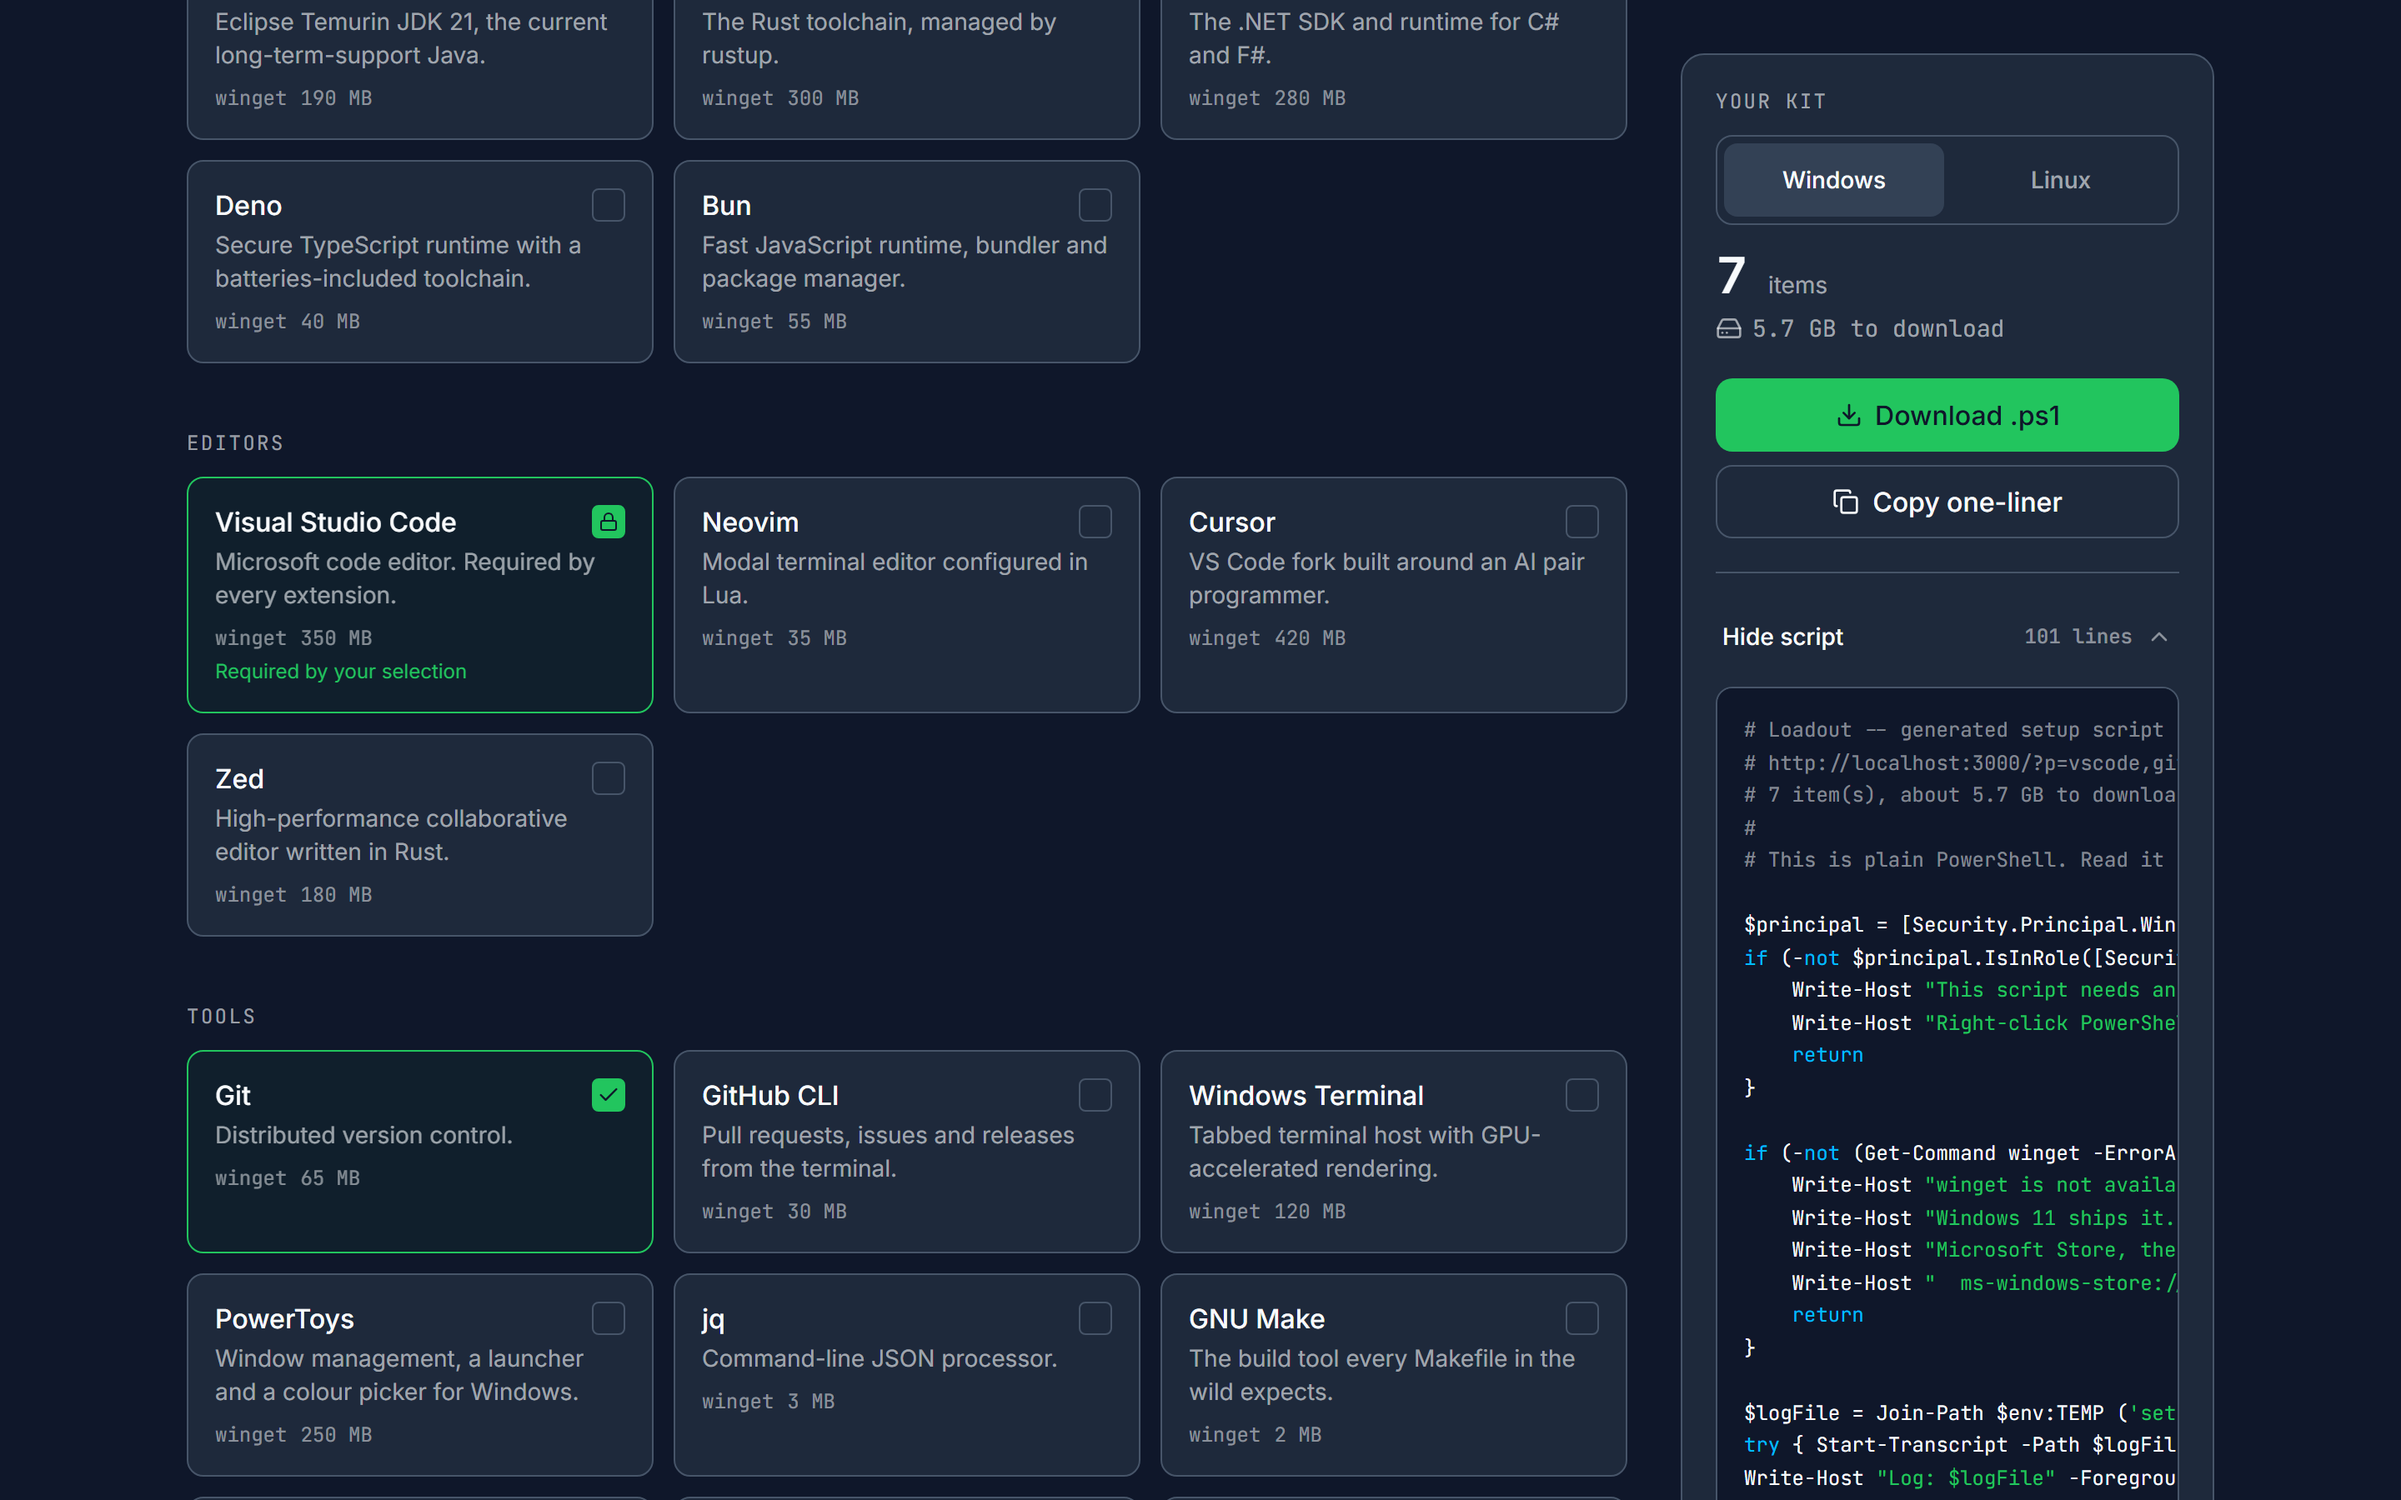
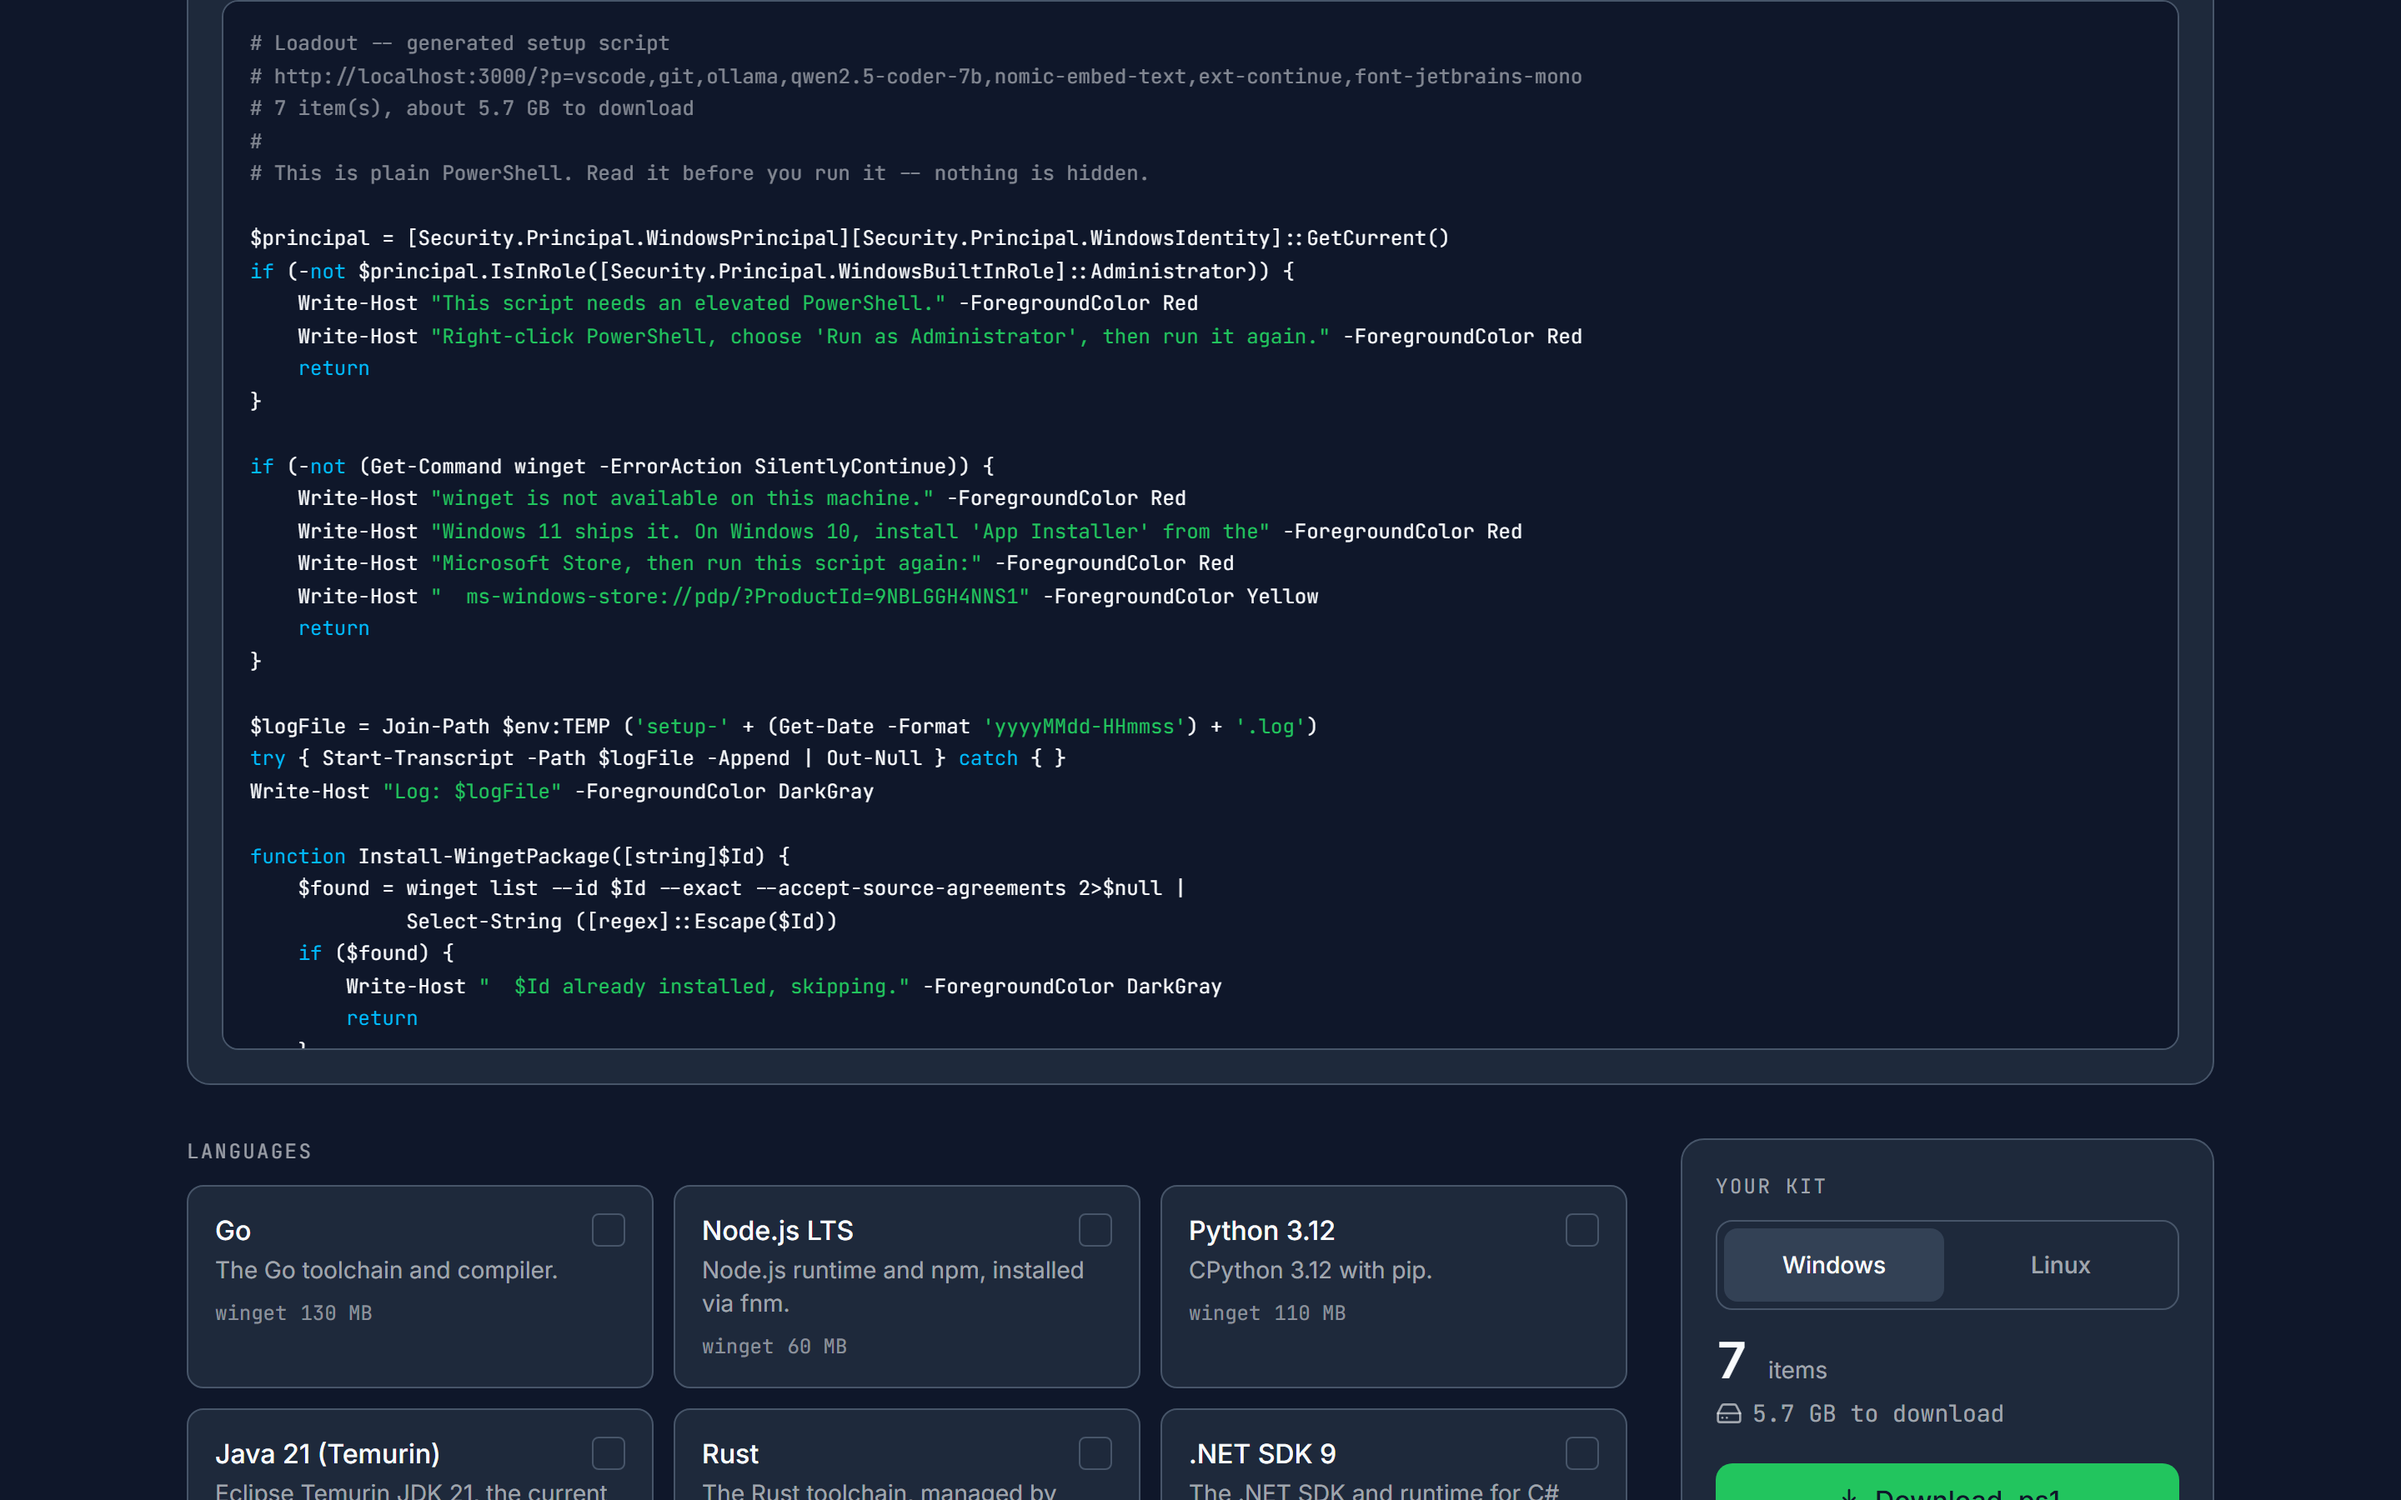
feat(script-preview): move to a full-width section so the script is readable

diff --git a/components/script-preview.tsx b/components/script-preview.tsx
@@ -1,7 +1,7 @@
 "use client";
 
 import { useMemo, useState } from "react";
-import { ChevronDown } from "lucide-react";
+import { ChevronDown, FileCode2 } from "lucide-react";
 import type { Os } from "@/lib/types";
 
 /**
@@ -96,18 +96,26 @@ export function ScriptPreview({ script, os }: { script: string; os: Os }) {
   const lineCount = useMemo(() => script.split("\n").length, [script]);
 
   return (
-    <div className="border-border mt-5 border-t pt-4">
+    // Full width, not inside the 320px sidebar. The generated PowerShell has
+    // lines up to about 80 characters; at 12px mono that needs roughly 620px,
+    // and the sidebar gave it 280. Every real line was clipped, so the one
+    // feature this product is built around -- read it before you run it -- was
+    // rendered in a column too narrow to read it in.
+    <div className="border-border bg-primary rounded-xl border p-4 sm:p-5">
       <button
         type="button"
         onClick={() => setOpen((value) => !value)}
         aria-expanded={open}
         aria-controls="script-body"
         className="hover:text-accent focus-visible:outline-ring flex min-h-[44px] w-full
-          cursor-pointer items-center justify-between gap-2 rounded-lg px-1 text-left
-          text-sm font-medium transition-colors duration-200
+          cursor-pointer items-center justify-between gap-3 rounded-lg px-1 text-left
+          font-medium transition-colors duration-200
           focus-visible:outline-2 focus-visible:outline-offset-2"
       >
-        <span>{open ? "Hide script" : "View script"}</span>
+        <span className="flex items-center gap-2">
+          <FileCode2 className="text-accent size-4 shrink-0" aria-hidden />
+          {open ? "Hide the generated script" : "View the generated script"}
+        </span>
         <span className="text-foreground/50 flex items-center gap-2 font-mono text-xs">
           {lineCount} lines
           <ChevronDown
@@ -129,7 +137,7 @@ export function ScriptPreview({ script, os }: { script: string; os: Os }) {
           tabIndex={0}
           role="region"
           aria-label={`Generated ${os === "linux" ? "bash" : "PowerShell"} script`}
-          className="border-border bg-background focus-visible:outline-ring mt-2 max-h-[60vh]
+          className="border-border bg-background focus-visible:outline-ring mt-3 max-h-[70vh]
             overflow-auto rounded-lg border p-4 font-mono text-xs leading-relaxed
             focus-visible:outline-2 focus-visible:-outline-offset-2"
         >

diff --git a/app/page.tsx b/app/page.tsx
@@ -177,6 +177,10 @@ export default function Page() {
         <PackChips packs={packs} selectedIds={selectedSet} onApply={applyPack} />
       </div>
 
+      <div className="mb-8">
+        <ScriptPreview script={script} os={os} />
+      </div>
+
       <div className="grid grid-cols-1 gap-8 lg:grid-cols-[1fr_320px]">
         <CatalogGrid
           items={catalog}
@@ -193,9 +197,7 @@ export default function Page() {
           origin={origin}
           os={os}
           onOsChange={setOs}
-        >
-          <ScriptPreview script={script} os={os} />
-        </KitSidebar>
+        />
       </div>
     </main>
   );

diff --git a/components/kit-sidebar.tsx b/components/kit-sidebar.tsx
@@ -23,7 +23,6 @@ type Props = {
   origin: string;
   os: Os;
   onOsChange: (os: Os) => void;
-  children?: React.ReactNode;
 };
 
 type CopyStatus = "idle" | "copied" | "failed";
@@ -45,7 +44,6 @@ export function KitSidebar({
   origin,
   os,
   onOsChange,
-  children,
 }: Props) {
   const [status, setStatus] = useState<CopyStatus>("idle");
   const empty = items.length === 0;
@@ -223,7 +221,6 @@ export function KitSidebar({
             : ""}
         </p>
 
-        {children}
       </div>
     </aside>
   );

diff --git a/docs/superpowers/plans/2026-08-19-loadout.md b/docs/superpowers/plans/2026-08-19-loadout.md
@@ -3379,8 +3379,25 @@ dev server fails with `EADDRINUSE` while `curl` still returns 200, so the
 capture silently comes from dev. Check the served HTML for `next-devtools`
 rather than trusting the exit code.
 
-**4. New, found by looking at the screenshots: the script panel is too narrow
-to read.** It lives in the 320px sidebar, so the generated PowerShell renders
+**4. The script panel was too narrow to read — fixed.** It lived in the 320px
+sidebar and is now its own full-width section between the pack chips and the
+two-column grid. Measured before and after against the longest emitted line
+(115 characters, the share-URL comment, which needs 828px at 12px mono):
+
+| width | visible before | visible after | clipped after |
+|---|---|---|---|
+| 1440 | 280px | **1140px** | no |
+| 1024 | 280px | **884px** | no |
+| 768 | 280px | 644px | scrolls in-box |
+| 375 | 280px | 275px | scrolls in-box |
+
+`documentElement.scrollWidth === clientWidth` at all four, so the page still
+never scrolls sideways. It sits *above* the grid rather than below it because
+the catalog is 62 items tall and anything under it is unfindable. Live
+re-rendering on every tick is preserved, which a modal would have cost.
+`KitSidebar`'s `children` prop went with it — dead API.
+
+The original finding, kept for the record: It lives in the 320px sidebar, so the generated PowerShell renders
 at roughly 35 characters per line and every real line is clipped. It scrolls
 horizontally, so nothing is lost — but the feature the whole product is built
 around is rendered in a column too narrow to actually read it in. Not fixed:

diff --git a/README.md b/README.md
@@ -53,11 +53,13 @@ before the download starts.
 
 ![The generated PowerShell, rendered live as you select](docs/screenshot-script.png)
 
+Expand the panel and the generated script is right there, re-rendered on every
+tick, at a width where you can actually read it. It is byte-for-byte what
+`/api/script` serves — asserted by a test, not assumed.
+
 Selecting a VS Code extension pulls VS Code in as **Required by your
-selection** — locked, still keyboard-reachable, and announced as unavailable
-rather than silently skipped. The panel on the right is the generated
-PowerShell, re-rendered on every tick. It is byte-for-byte what `/api/script`
-serves, which is asserted by a test rather than assumed.
+selection**: locked, still keyboard-reachable, and announced as unavailable
+rather than silently skipped.
 
 Captured from a production build at 1440x900.
 
